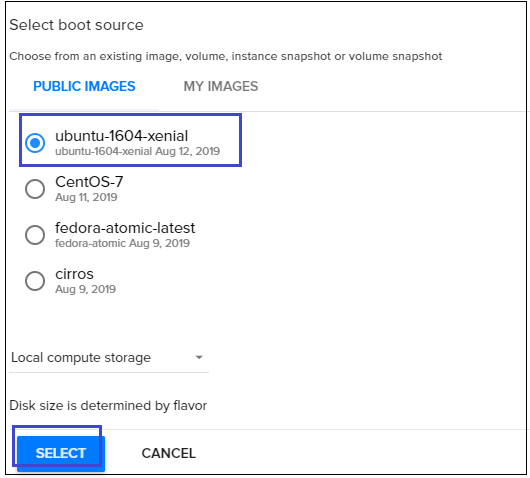
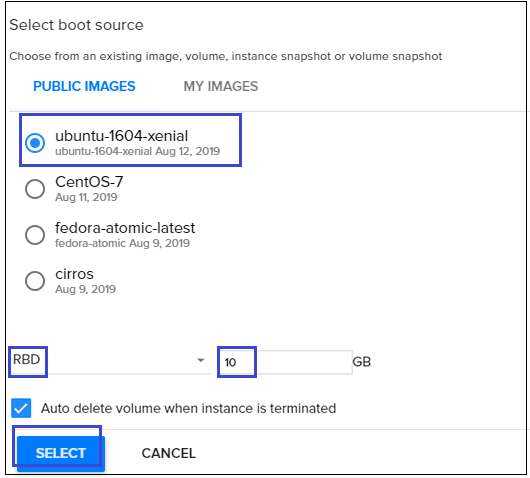
update image

diff --git a/_docs/quickstarts/create-linux-vm-using-Ventus.md b/_docs/quickstarts/create-linux-vm-using-Ventus.md
@@ -44,6 +44,9 @@ Select the region (location) of your instance.
 - *Select a Boot source*: 
 Select the image to boot from, from the list of available images. You can also boot from an instance snapshot if any is available. (eg. "ubuntu-1604-xenial")
 
+- *Select storage type*: 
+Select storage type "RBD" and provide preferred disc size
+
 ![](../../assets/img/new-linux-vm-V/instances-Ventus3.png)
 
 
